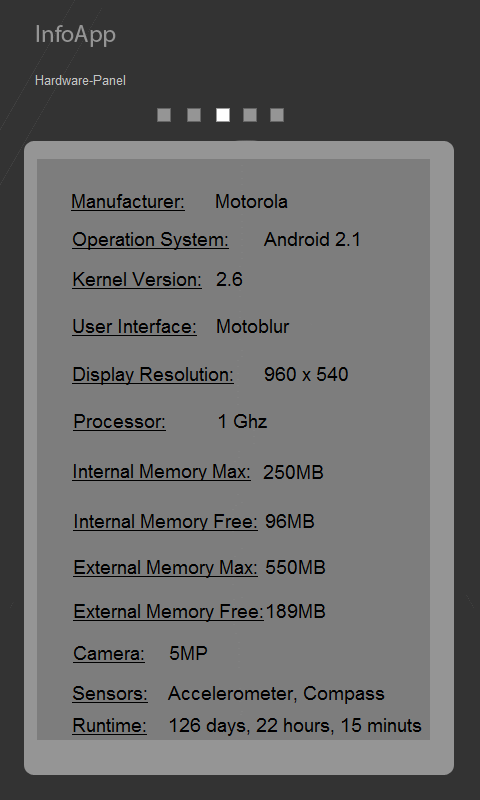
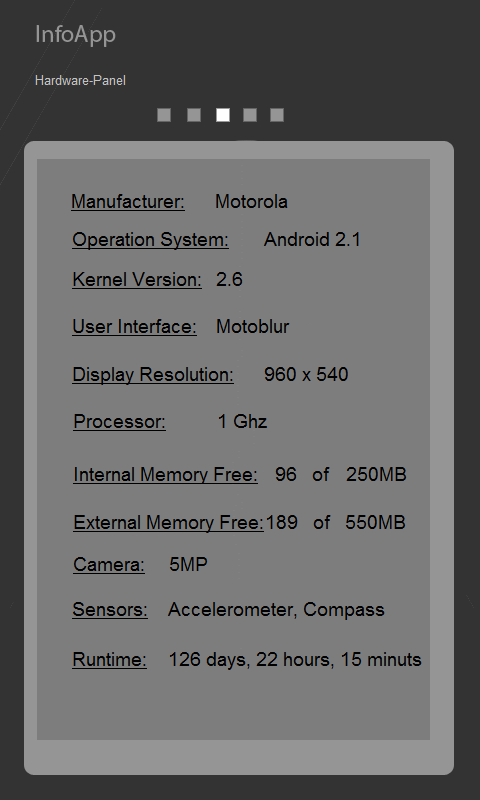
Service Features of Hardware-Panel refs 769

diff --git a/documentation/infoapp/specification/specification.html b/documentation/infoapp/specification/specification.html
@@ -366,7 +366,8 @@
 						<li>Benützeroberfläche</li>
 						<li>Displayauflösung</li>
 						<li>Prozessor</li>
-						<li>Speicherverfügbarkeit interner/externer Speicher</li>
+						<li>Interner Speicher</li>
+						<li>Externer Speicher</li>
 						<li>Kamera</li>
 						<li>Sensoren</li>
 						<li>Gesamtlaufzeit des Geräts</li>
@@ -665,6 +666,88 @@
 									<td>upload-data</td>
 									<td>true</td>
 								</tr>
+							</table>
+						</li>
+					</ul>
+				</li>
+			</ul>
+
+			<h2 id="sf-hardware-info">Hardware-Informationen</h2>
+			<ul>
+				<li><b>Identifier:</b> hardware-info</li>
+				<li><b>Name:</b> Hardware-Information</li>
+				<li><b>Beschreibung:</b> Get information about the hardware.</li>
+				<li><b>Benötigte Ressourcengruppen:</b>
+					<ul>
+						<li>de.unistuttgart.ipvs.pmp.resourcegroups.hardware (<span class="reference" title="#rg-hardware"></span>)
+							<table>
+								<tr>
+									<th>Privacy Setting Identifier</th>
+									<th>Privacy Setting Wert</th>
+								</tr>
+								<tr>
+									<td>manufacturer</td>
+									<td>true</td>
+								</tr>
+								<tr>
+									<td>display-resolution</td>
+									<td>true</td>
+								</tr>
+								<tr>
+									<td>processor</td>
+									<td>true</td>
+								</tr>
+								<tr>
+									<td>internal-memory</td>
+									<td>true</td>
+								</tr>
+								<tr>
+									<td>external-memory</td>
+									<td>true</td>
+								</tr>
+								<tr>
+									<td>camera</td>
+									<td>true</td>
+								</tr>
+								<tr>
+									<td>sensors</td>
+									<td>true</td>
+								</tr>
+								<tr>
+									<td>runtime</td>
+									<td>true</td>
+								</tr>								
+							</table>
+						</li>
+					</ul>
+				</li>
+			</ul>
+
+			<h2 id="sf-software-info">Software-Informationen</h2>
+			<ul>
+				<li><b>Identifier:</b> software-info</li>
+				<li><b>Name:</b> Software-Information</li>
+				<li><b>Beschreibung:</b> Get information about the software.</li>
+				<li><b>Benötigte Ressourcengruppen:</b>
+					<ul>
+						<li>de.unistuttgart.ipvs.pmp.resourcegroups.hardware (<span class="reference" title="#rg-hardware"></span>)
+							<table>
+								<tr>
+									<th>Privacy Setting Identifier</th>
+									<th>Privacy Setting Wert</th>
+								</tr>
+								<tr>
+									<td>sdk-version</td>
+									<td>true</td>
+								</tr>
+								<tr>
+									<td>kernel-version</td>
+									<td>true</td>
+								</tr>
+								<tr>
+									<td>user-interface</td>
+									<td>true</td>
+								</tr>								
 							</table>
 						</li>
 					</ul>
